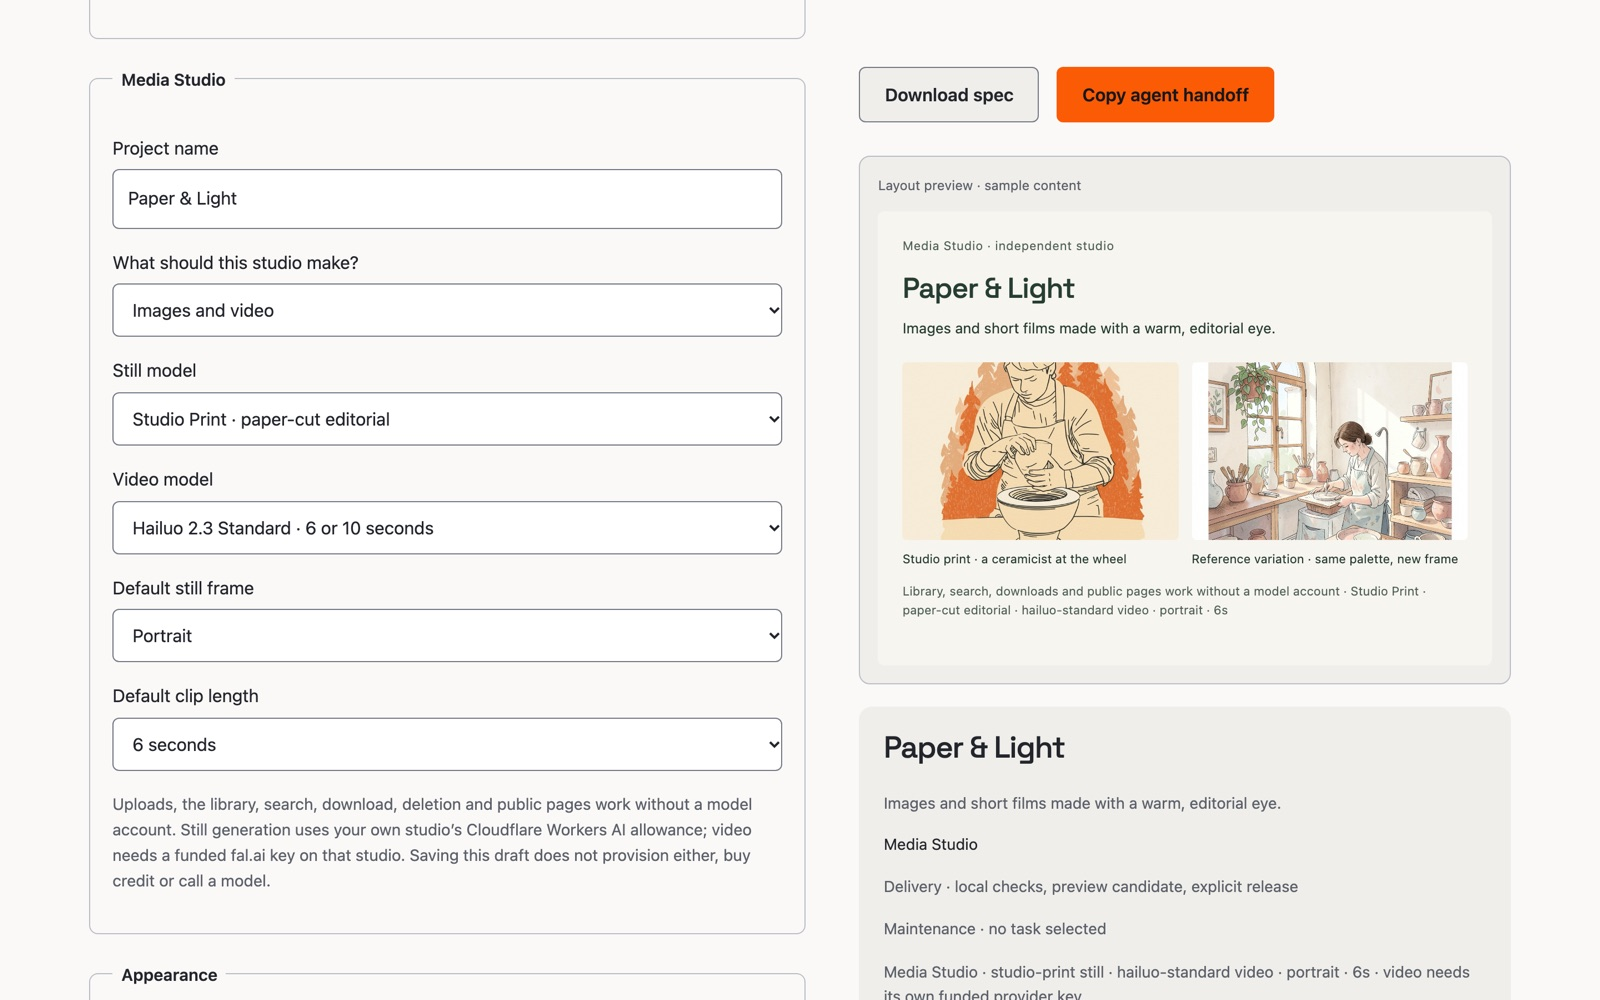
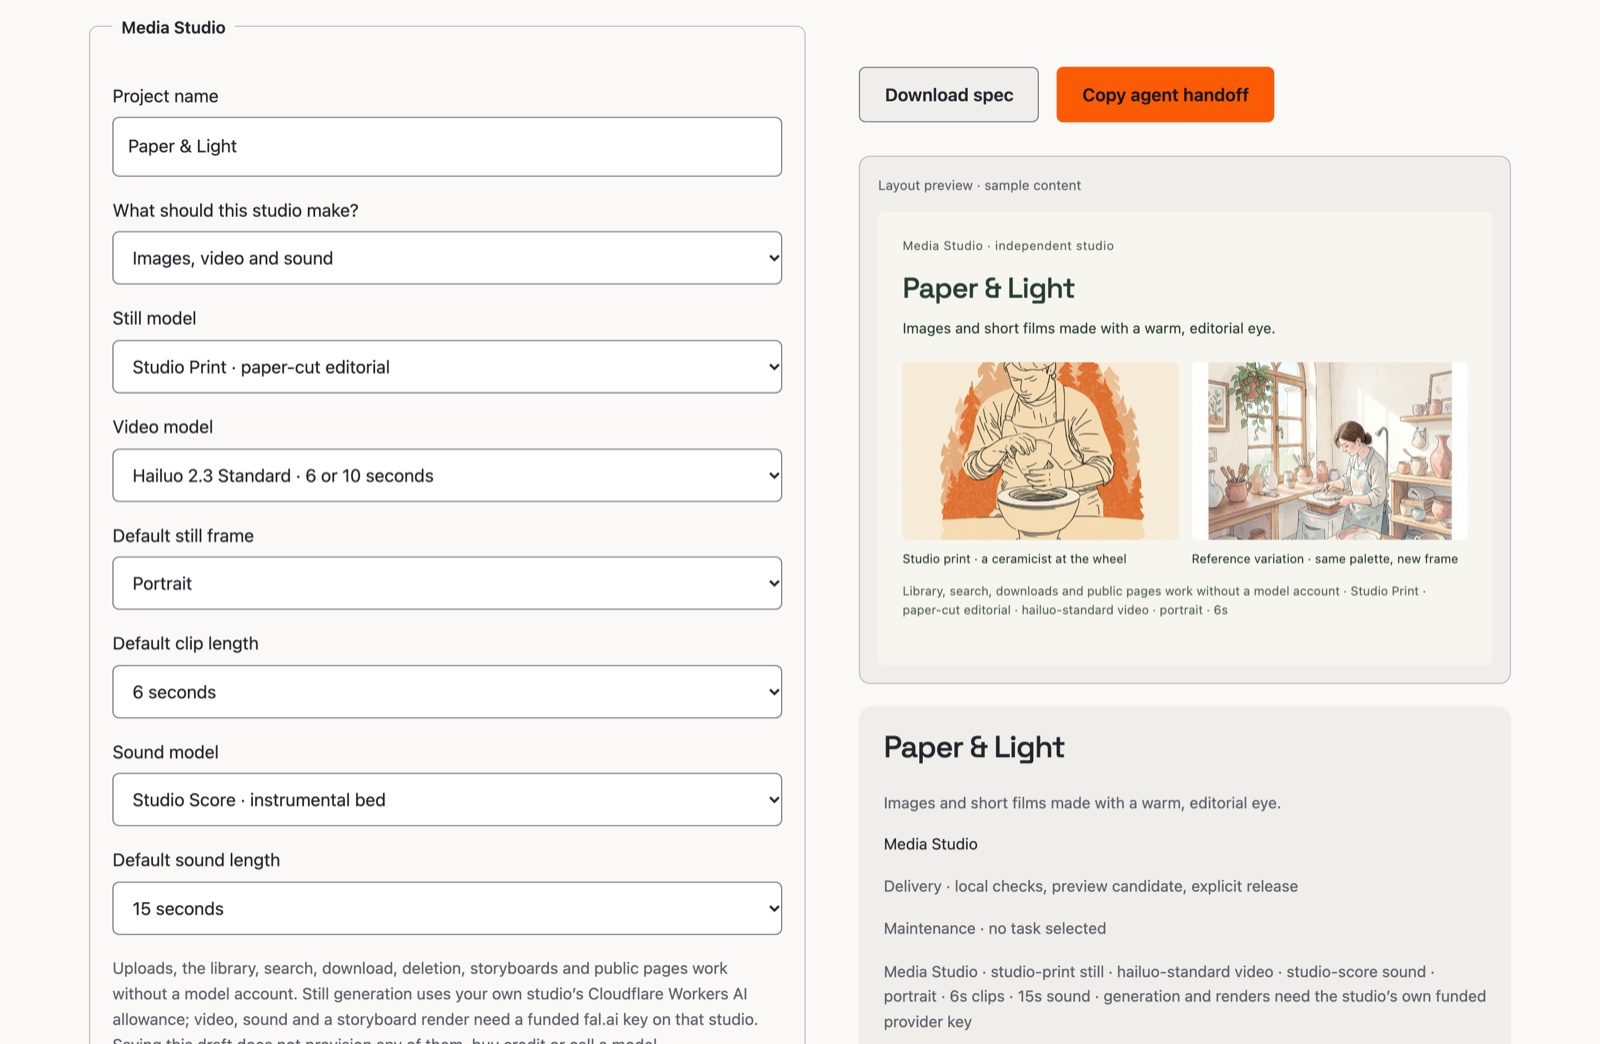
Show Init's sound fields and state the assembly cost honestly
The Init capture now comes from the deployed page with the sound model and
bed length visible, the cost table counts both assemblies, and the app
document describes sound, storyboards and bounded assembly.

diff --git a/docs/media-studio.md b/docs/media-studio.md
@@ -1,8 +1,8 @@
 # Media Studio
 
 Implemented for [#457](https://github.com/loftwah/app-composer/issues/457). An
-independent, MIT image-and-video studio that people select and configure through
-Composer, then own and operate as its own application.
+independent, MIT image, video and sound studio that people select and configure
+through Composer, then own and operate as its own application.
 
 - Source: https://github.com/loftwah/composer-media-studio
 - Live: https://media.loftwah.com
@@ -11,22 +11,31 @@ Composer, then own and operate as its own application.
 
 ## What a person gets
 
-**From Composer:** Init → *Make and organise images and video* → name, creative
-direction, visibility, still/video defaults → saved specification → portable
-export → the chosen agent's handoff. The handoff pins the studio repository and
+**From Composer:** Init → *Media Studio* → name, creative direction, visibility,
+still/video/sound defaults and bed length → saved specification (revision 2;
+revision 1 drafts still validate) → portable export → the chosen agent's
+handoff. The handoff pins the studio repository and
 commit and tells the agent to create an owner-controlled copy with its own D1
 database, R2 bucket, Workers AI binding, secrets, cron and release.
 
-**In the studio:** real uploads (JPEG/PNG/WebP to 32 MB, MP4/WebM to 64 MB),
-project collections, search and filters, an accessible viewer, rename, download,
-delete, creative references, project export and deliberate public pages. These
-work with no model account.
+**In the studio:** real uploads (JPEG/PNG/WebP and WAV/MP3/M4A to 32 MB,
+MP4/WebM to 64 MB), project collections, search and filters, an accessible
+viewer, rename, download, delete, creative references, storyboards, project
+export and deliberate public pages. These work with no model account.
 
-**Generation:** one real still route and one real reference-guided variation
-route on the studio's own Cloudflare Workers AI account, plus one asynchronous
-image-to-video route through the studio's own fal.ai key. Five original recipes
-start the work; every control states whether it maps to a provider field or a
-prompt instruction. Every request shows an estimate and requires confirmation.
+**Generation:** four still routes and one reference-guided variation on the
+studio's own Cloudflare Workers AI account; two image-to-video routes, two sound
+routes (Studio Score 10–30 s, Studio Voice) and one bounded assembly route
+through the studio's own fal.ai key. Five original recipes start the work; every
+control states whether it maps to a provider field or a prompt instruction.
+Every request shows an estimate and requires confirmation.
+
+**Storyboards and assembly:** two to six saved takes (≤10.5 s each, ≤60 s total)
+plus one saved bed. Rendering is one `fal-ai/ffmpeg-api/compose` call over
+30-minute signed single-asset links; the result is copied into the studio's R2.
+Editing a storyboard updates it in place and keeps earlier renders. A 9:16 cut
+composes the same takes portrait-first and refuses clearly when none is
+portrait.
 
 ## Provider truth
 
